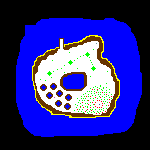
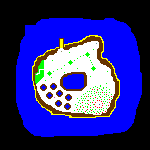
added levels

Changed region(s): [[0.2133, 0.4, 0.2933, 0.56], [0.4, 0.24, 0.4267, 0.32]]

diff --git a/labs/finalS1/World.java b/labs/finalS1/World.java
@@ -34,14 +34,24 @@ public class World {
     int verticalOffset = 45;
     int horizontalViewWindowSize = 37;
     int verticalViewWindowSize = 20;
+    Location characterSpawnPoint;
+    Location enemySpawnPoint;
 
     HashMap<Location, Tile> grid;
     HashMap<Location, Enemy> enemies;
+    HashMap<Location, Tile> items;
 
     public World(String filename) {
         enemies = new HashMap<Location, Enemy>();
-        enemies.put(new Location(70, 70), new Enemy());
+        /*enemies.put(new Location(70, 70), new Enemy());
+        enemies.put(new Location(75, 70), new Enemy());
+        enemies.put(new Location(80, 70), new Enemy());
+        enemies.put(new Location(60, 70), new Enemy());
+        enemies.put(new Location(50, 70), new Enemy());
+        enemies.put(new Location(85, 70), new Enemy());*/
+
         grid = new HashMap<Location, Tile>();
+        items = new HashMap<Location, Tile>();
         
         //read in the file to set up level
         try {
@@ -70,22 +80,35 @@ public class World {
                         grid.put(loc, new Tile("mine", "mine.png"));
                     }
                     else if(read.getRed() == 50 && read.getGreen() == 100 && read.getBlue() == 150) {
-                        grid.put(loc, new Tile("item", "Sail", "sail.png"));
+                        grid.put(loc, new Tile("dirt", "dirt.png"));
+                        items.put(loc, new Tile("item", "Sail", "sail.png"));
                     }
                     else if(read.getRed() == 255 && read.getGreen() == 255 && read.getBlue() == 0) {
                         grid.put(loc, new Tile("sand", "sand.png"));
                     }
                     else if(read.getRed() == 200 && read.getGreen() == 50 && read.getBlue() == 200) {
-                        grid.put(loc, new Tile("item", "Mast", "mast.png"));
+                        grid.put(loc, new Tile("dirt", "dirt.png"));                        
+                        items.put(loc, new Tile("item", "Mast", "mast.png"));
                     }
                     else if(read.getRed() == 100 && read.getGreen() == 150 && read.getBlue() == 155) {
-                        grid.put(loc, new Tile("item", "Rudder", "rudder.png"));
+                        grid.put(loc, new Tile("dirt", "dirt.png"));
+                        items.put(loc, new Tile("item", "Rudder", "rudder.png"));
+                    }
+                    else if(read.getRed() == 140 && read.getGreen() == 140 && read.getBlue() == 100) {
+                        grid.put(loc, new Tile("dirt", "dirt.png"));
+                        characterSpawnPoint = loc;
+                    }
+                    else if(read.getRed() == 176 && read.getGreen() == 66 && read.getBlue() == 164) {
+                        grid.put(loc, new Tile("dirt", "dirt.png"));
+                        enemySpawnPoint = loc;
                     }
                 }
             }
         } catch (IOException e) {
             e.printStackTrace();
         }
+        horizontalOffset = characterSpawnPoint.x - 18;
+        verticalOffset = characterSpawnPoint.y - 11;
     }
     public void drawMe(Graphics g) {
         int wx = 0;
@@ -97,6 +120,9 @@ public class World {
                 if(grid.containsKey(temp)) {
                     grid.get(temp).drawMe(g, wx*50, wy*50);
                 }
+                if(items.containsKey(temp)) {
+                    items.get(temp).drawMe(g, wx*50, wy*50);
+                }
                 if(enemies.containsKey(temp)) {
                     enemies.get(temp).drawMe(g, wx*50, wy*50);
                 }
@@ -104,6 +130,10 @@ public class World {
             }
             wx = (wx+1);
         }
+    }
+    public void spawnEnemy() {
+        if(enemies.size() < 20)
+            enemies.put(enemySpawnPoint, new Enemy());
     }
     public void move(int dx, int dy) {
         horizontalOffset += dx;
@@ -117,22 +147,38 @@ public class World {
         Location actualCharacterLocation = new Location(c.l.x+horizontalOffset, c.l.y+verticalOffset);
         for(Location el : enemies.keySet()) {
             Enemy e = enemies.get(el);
-            newEnemies.put(getMove(getCounters(el, actualCharacterLocation, enemies), el), enemies.get(el));
+            newEnemies.put(getMove(getCounters(el, actualCharacterLocation, enemies), el, actualCharacterLocation), enemies.get(el));
         }
         enemies = newEnemies;
     }
-    public Location getMove(HashMap<Location, Integer> counters, Location l) {
+    public void checkEnemyCollisions(Character c) {
+        HashMap<Location, Enemy> newEnemies = new HashMap<Location, Enemy>();
+        for(Location el : enemies.keySet()) {
+            if(el.x == c.l.x+horizontalOffset && el.y == c.l.y+verticalOffset) {
+                c.hurt();
+            }
+            if(!grid.get(el).type.equals("mine"))
+                newEnemies.put(el, enemies.get(el));
+            else
+                grid.put(el, new Tile("hole", "hole.png"));
+
+        }
+        enemies = newEnemies;
+    }
+    public Location getMove(HashMap<Location, Integer> counters, Location l, Location cl) {
         ArrayList<Location> adjacent = new ArrayList<Location>();
         adjacent.add(new Location(l.x-1, l.y));
         adjacent.add(new Location(l.x+1, l.y));
         adjacent.add(new Location(l.x, l.y+1));
         adjacent.add(new Location(l.x, l.y-1));
         for(int i = 0;i < adjacent.size();i++) {
-            if(!counters.containsKey(adjacent.get(i))) {
+            if(!counters.containsKey(adjacent.get(i)) || enemies.containsKey(adjacent.get(i))) {
                     adjacent.remove(i);
                     i--;
             }
         }
+        if(adjacent.isEmpty())
+            return l;
         Location smallestCounter = adjacent.get(0);
         for(int i = 0;i < adjacent.size();i++) {
             if(counters.get(adjacent.get(i)) < counters.get(smallestCounter))
@@ -141,7 +187,12 @@ public class World {
         return smallestCounter;
     }
     public HashMap<Location, Integer> getCounters(Location S, Location O, HashMap<Location, Enemy> enemies) {
+
         HashMap<Location, Integer> counters = new HashMap<Location, Integer>();
+        if(S.x == O.x && S.y == O.y) {
+            counters.put(O, 0);
+            return counters;
+        }
         Queue<Location> queue = new LinkedList<Location>();
         queue.add(O);
         counters.put(new Location(O.x, O.y), 0);
@@ -208,19 +259,27 @@ public class World {
                     horizontalOffset += dx;
                     verticalOffset += dy;
                     break;
+                case "item":
+                    horizontalOffset += dx;
+                    verticalOffset += dy;
+                    break;
                 case "mine":
                     c.hurt();
                     grid.put(possibleCharacterLocation, new Tile("hole", "hole.png"));
                     horizontalOffset += dx;
                     verticalOffset += dy;
                     break;
-                case "item":
-                    c.addToInventory(grid.get(possibleCharacterLocation));
-                    grid.put(possibleCharacterLocation, new Tile("dirt", "dirt.png"));
-                    horizontalOffset += dx;
-                    verticalOffset += dy;
-                    break;
             }
         }
+        if(items.containsKey(possibleCharacterLocation)) {
+            c.addToInventory(items.get(possibleCharacterLocation));
+            items.remove(possibleCharacterLocation);
+        }
+    }
+    public boolean checkDone(Character c) {
+        Location actualCharacterLocation = new Location(c.l.x+horizontalOffset, c.l.y+verticalOffset);
+        if(items.isEmpty() && grid.get(actualCharacterLocation).type.equals("sand"))
+            return true;
+        return false;
     }
 }

diff --git a/labs/finalS1/Screen.java b/labs/finalS1/Screen.java
@@ -29,7 +29,9 @@ import java.awt.event.KeyEvent;
 
 public class Screen extends JPanel implements KeyListener {
     Character character;
-    HashMap<Location, Thing> grid;
+    int counter = 0;
+    int levelCounter = 1;
+    //HashMap<Location, Thing> grid;
     World w;
     
     boolean up, down, right, left;
@@ -38,43 +40,9 @@ public class Screen extends JPanel implements KeyListener {
         setFocusable(true);
         addKeyListener(this);
         
-        grid = new HashMap<Location, Thing>();
-        w = new World("level1.png");
+        //grid = new HashMap<Location, Thing>();
+        w = new World("level"+levelCounter+".png");
         
-        //read in the file to set up level
-        try {
-            Scanner scan = new Scanner(new File("level1.txt"));
-            int x = 0;
-            int y = 0;
-            while (scan.hasNextLine()){
-                String line = scan.nextLine();
-                for(int i = 0;i < line.length();i++) {
-                    Location loc = new Location(x, y);
-                    switch(line.charAt(i)) {
-                        case 'n':
-                            grid.put(loc, new Nothing());
-                            break;
-                        case 'O':
-                            grid.put(loc, new Item("Orange"));
-                            break;
-                        case 'A':
-                            grid.put(loc, new Item("Apple"));
-                            break;
-                        case 'w':
-                            grid.put(loc, new Wall());
-                            break;
-                        case 'o':
-                            grid.put(loc, new Obstacle());
-                            break;
-                    }
-                    x = (x+1)%line.length();
-                }
-                y++;
-            }
-        }
-        catch (FileNotFoundException e) {
-            e.printStackTrace();
-        }
         character = new Character(new Location(18, 11)); 
     }
     public Dimension getPreferredSize() {
@@ -90,6 +58,8 @@ public class Screen extends JPanel implements KeyListener {
 
         w.drawMe(g);
         character.drawMe(g);
+        g.setColor(Color.green);
+        g.drawString("Level: "+levelCounter, 50, 50);
     }
     
     public void animate() {
@@ -111,16 +81,31 @@ public class Screen extends JPanel implements KeyListener {
                 w = new World("level1.png");
                 character = new Character(new Location(18, 11)); 
             }
-            w.moveEnemies(character);
+            if(counter%2 == 0)
+                w.moveEnemies(character);
+            if(counter%3 == 0) {
+                w.spawnEnemy();
+            }
+            if(w.checkDone(character))
+                levelUp();
+            w.checkEnemyCollisions(character);
             //Wait 
             try {
                 Thread.sleep(100); //milliseconds
             } catch (InterruptedException ex) {
                 Thread.currentThread().interrupt();
             }
+            counter++;
             repaint();
         }
     } 
+    public void levelUp() {
+        System.out.println("level up!");
+        levelCounter++;
+        w = new World("level"+levelCounter+".png");
+        w.spawnEnemy();
+        //character = new Character(new Location(18, 11));
+    }
     public void keyPressed(KeyEvent e) {
         int keyDown = e.getKeyCode();
         switch(keyDown) {

diff --git a/labs/finalS1/Enemy.java b/labs/finalS1/Enemy.java
@@ -16,7 +16,7 @@ public class Enemy {
     BufferedImage display;
     public Enemy() {
         try {
-            display = ImageIO.read(new File("characterUp.png"));
+            display = ImageIO.read(new File("enemy.png"));
         } catch (IOException e) {
             e.printStackTrace();
         }
